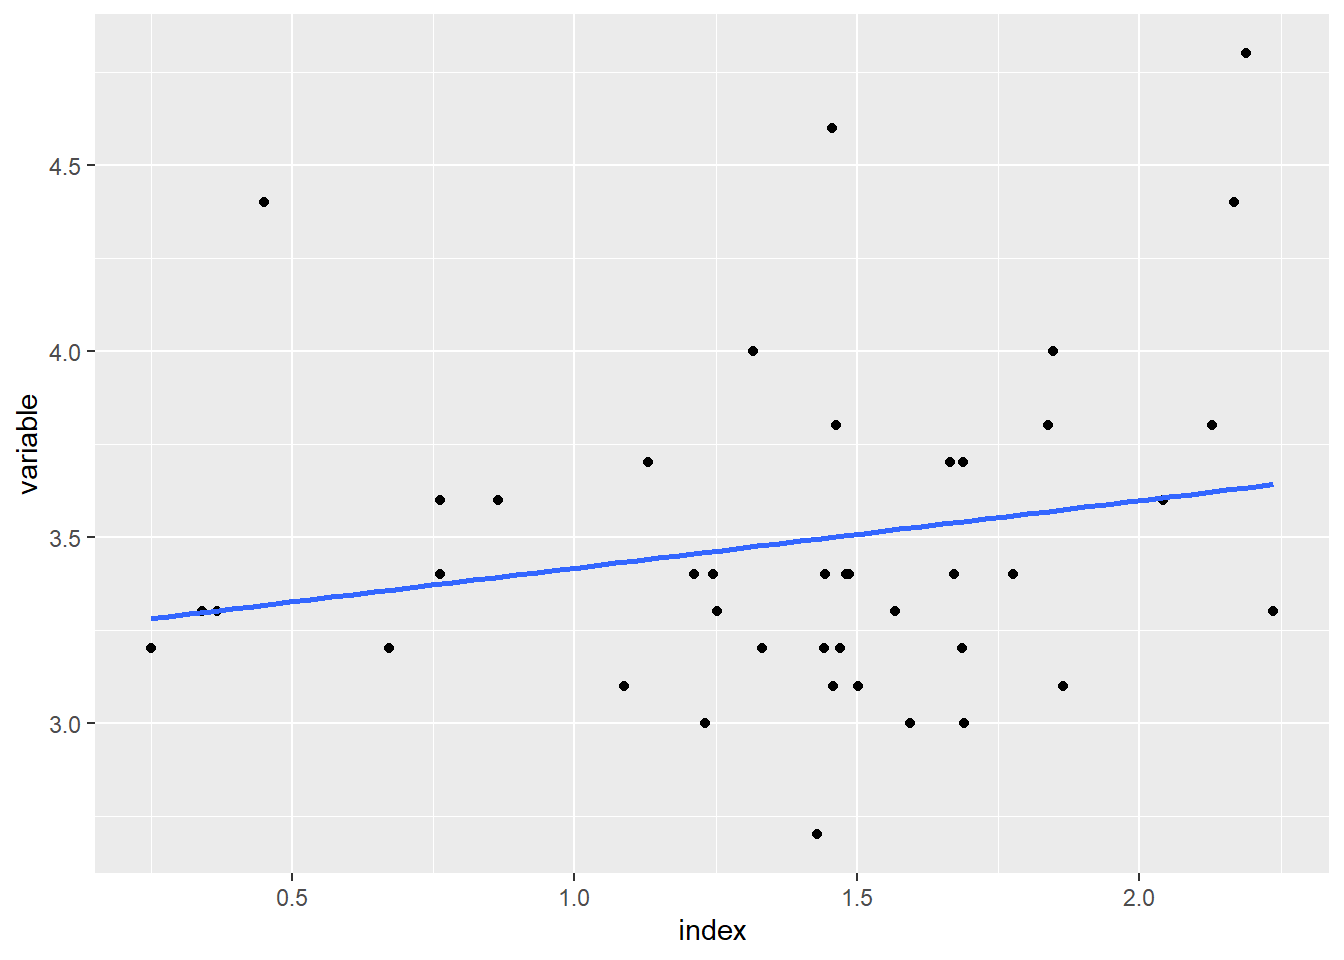
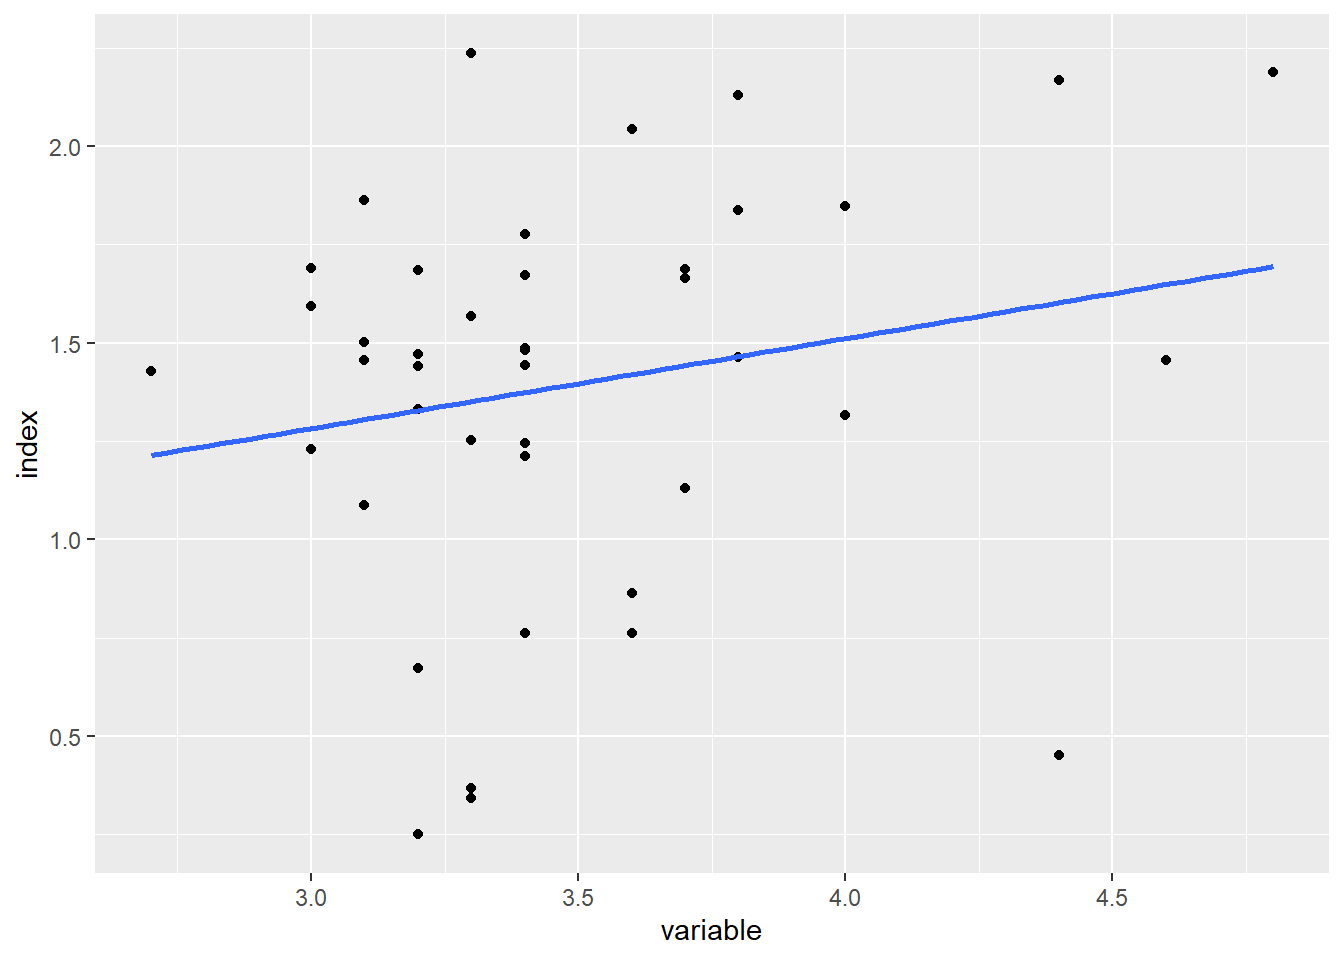
Build site.

diff --git a/docs/plot.html b/docs/plot.html
@@ -417,7 +417,7 @@ div.tocify {
 <div class="tab-content">
 <div id="summary" class="tab-pane fade in active">
 <p>
-<strong>Last updated:</strong> 2021-03-23
+<strong>Last updated:</strong> 2021-03-24
 </p>
 <p>
 <strong>Checks:</strong> <span class="glyphicon glyphicon-ok text-success" aria-hidden="true"></span> 7 <span class="glyphicon glyphicon-exclamation-sign text-danger" aria-hidden="true"></span> 0
@@ -508,24 +508,22 @@ This reproducible <a href="http://rmarkdown.rstudio.com">R Markdown</a> analysis
 <div class="panel panel-default">
 <div class="panel-heading">
 <p class="panel-title">
-<a data-toggle="collapse" data-parent="#workflowr-checks" href="#strongRepositoryversionstrongahrefhttpsgithubcomMHPHPDataprojecttree13d0774d1cef085124d694bc59115603415c20d5targetblank13d0774a"> <span class="glyphicon glyphicon-ok text-success" aria-hidden="true"></span> <strong>Repository version:</strong> <a href="https://github.com/MHPHP/Dataproject/tree/13d0774d1cef085124d694bc59115603415c20d5" target="_blank">13d0774</a> </a>
+<a data-toggle="collapse" data-parent="#workflowr-checks" href="#strongRepositoryversionstrongahrefhttpsgithubcomMHPHPDataprojecttree4cb7487adbe21d82bf1c5ebef0dff4d6a0f539fctargetblank4cb7487a"> <span class="glyphicon glyphicon-ok text-success" aria-hidden="true"></span> <strong>Repository version:</strong> <a href="https://github.com/MHPHP/Dataproject/tree/4cb7487adbe21d82bf1c5ebef0dff4d6a0f539fc" target="_blank">4cb7487</a> </a>
 </p>
 </div>
[2 lines of base64/hex data omitted]
 <div class="panel-body">
 <p>
 Great! You are using Git for version control. Tracking code development and connecting the code version to the results is critical for reproducibility.
 </p>
 <p>
-The results in this page were generated with repository version <a href="https://github.com/MHPHP/Dataproject/tree/13d0774d1cef085124d694bc59115603415c20d5" target="_blank">13d0774</a>. See the <em>Past versions</em> tab to see a history of the changes made to the R Markdown and HTML files.
+The results in this page were generated with repository version <a href="https://github.com/MHPHP/Dataproject/tree/4cb7487adbe21d82bf1c5ebef0dff4d6a0f539fc" target="_blank">4cb7487</a>. See the <em>Past versions</em> tab to see a history of the changes made to the R Markdown and HTML files.
 </p>
 <p>
 Note that you need to be careful to ensure that all relevant files for the analysis have been committed to Git prior to generating the results (you can use <code>wflow_publish</code> or <code>wflow_git_commit</code>). workflowr only checks the R Markdown file, but you know if there are other scripts or data files that it depends on. Below is the status of the Git repository when the results were generated:
 </p>
 <pre><code>
-Untracked files:
-    Untracked:  data/data_5130.csv
-
+working directory clean
 </code></pre>
 <p>
 Note that any generated files, e.g. HTML, png, CSS, etc., are not included in this status report because it is ok for generated content to have uncommitted changes.
@@ -563,6 +561,40 @@ Message
 </tr>
 </thead>
 <tbody>
+<tr>
+<td>
+Rmd
+</td>
+<td>
+<a href="https://github.com/MHPHP/Dataproject/blob/4cb7487adbe21d82bf1c5ebef0dff4d6a0f539fc/analysis/plot.Rmd" target="_blank">4cb7487</a>
+</td>
+<td>
+MHPHP
+</td>
+<td>
+2021-03-24
+</td>
+<td>
+wflow_publish(all = TRUE)
+</td>
+</tr>
+<tr>
+<td>
+html
+</td>
+<td>
+<a href="https://rawcdn.githack.com/MHPHP/Dataproject/ecf3de6af7889fb4b2eaa851f7b09c38f79812d3/docs/plot.html" target="_blank">ecf3de6</a>
+</td>
+<td>
+MHPHP
+</td>
+<td>
+2021-03-23
+</td>
+<td>
+Build site.
+</td>
+</tr>
 <tr>
 <td>
 Rmd
@@ -646,7 +678,7 @@ index &lt;- index[missing]
 variable &lt;- variable[missing]
 
 variable &lt;-  as.numeric(variable)
-ggplot(mapping = aes(x = index, y = variable)) +
+ggplot(mapping = aes(x = variable, y = index)) +
   geom_point() +
   geom_smooth(method = &quot;lm&quot;, se = FALSE)
 }</code></pre>
